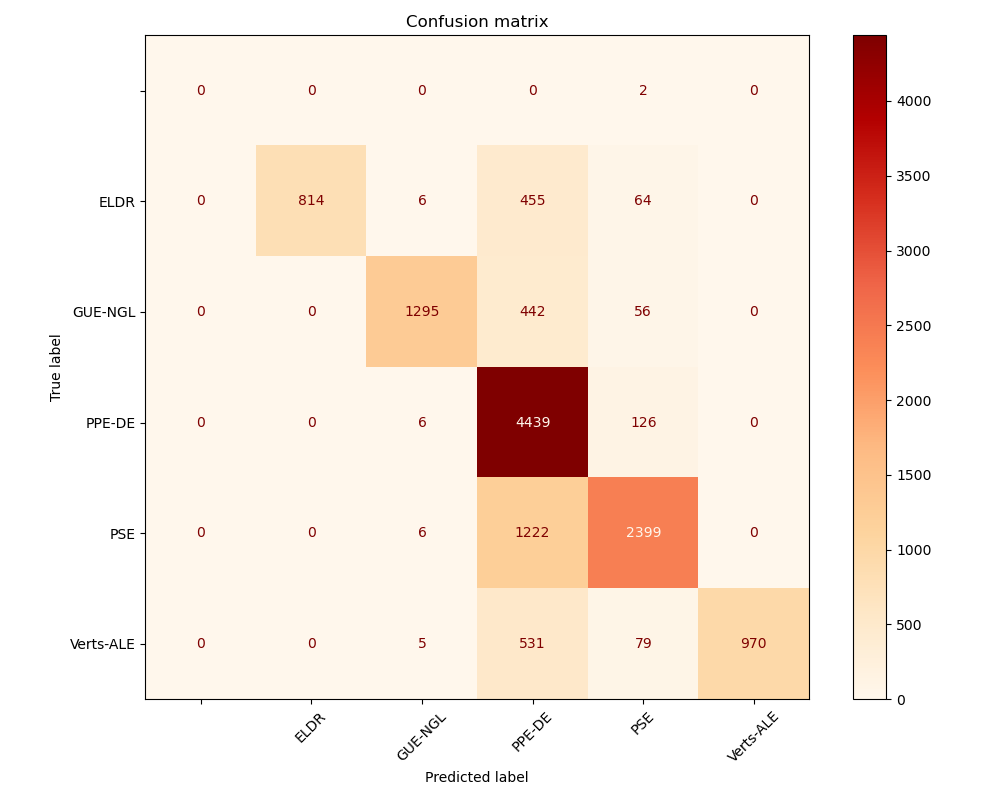
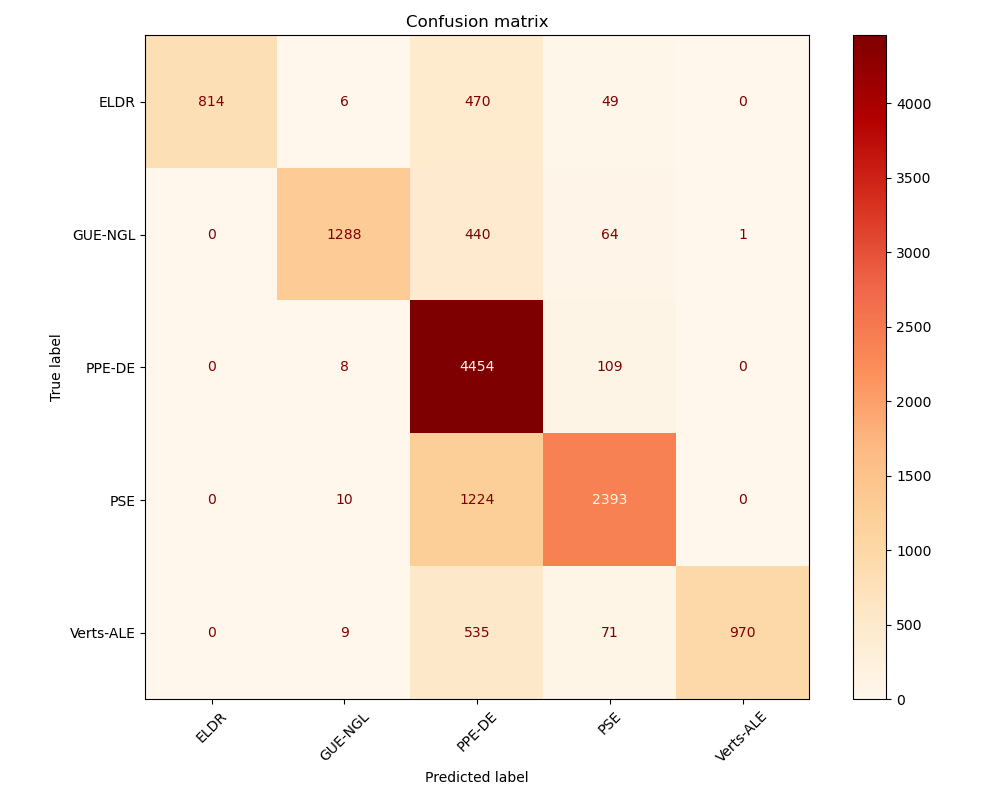
serveral fixes

diff --git a/src/classification/Classifier.py b/src/classification/Classifier.py
@@ -39,7 +39,7 @@ class Classifier:
             __scoring (str): The scoring metric to use during GridSearchCV (default: "accuracy").
     """
 
-    def __init__(self, type: str, X_train, X_test, y_train, y_test, labels):
+    def __init__(self, type: str, X_train, X_test, y_train, y_test, labels, language):
         self.type = type
         self.X_train = X_train
         self.X_test = X_test
@@ -55,6 +55,7 @@ class Classifier:
             "LR": self.__gridSearch_LR,
         }
         self.__scoring = "accuracy"
+        self.language = language
 
     def gridSearch(self, save=False) -> tuple:
         """
@@ -80,8 +81,8 @@ class Classifier:
         )
         if save:
             print(best_params)
-            os.makedirs("best_params", exist_ok=True)
-            with open(f"best_params/{self.type}.json", "w") as outf:
+            os.makedirs(f"best_params/{self.language}", exist_ok=True)
+            with open(f"best_params/{self.type}_{self.language}.json", "w") as outf:
                 json.dump(best_params, outf)
         return best_params, scores
 
@@ -222,14 +223,16 @@ class Classifier:
         else:
             raise ValueError(f"Unsupported classifier type: {self.type}")
         clf.fit(self.X_train, self.y_train)
-        os.makedirs("saved_models", exist_ok=True)
+        os.makedirs(f"saved_models/{self.language}", exist_ok=True)
         joblib.dump(clf, f"saved_models/{self.type}_best.joblib")
         metadata = {
             "type": self.type,
             "best_params": best_params,
             "labels": self.labels,
         }
-        with open(f"saved_models/{self.type}_metadata.json", "w") as outf:
+        with open(
+            f"saved_models/{self.language}/{self.type}_metadata.json", "w"
+        ) as outf:
             json.dump(metadata, outf)
 
     def get_confusionMatrix(self, y_hat) -> np.ndarray:
@@ -276,7 +279,7 @@ class Classifier:
             plt.show()
         if save:
             os.makedirs(f"results/{self.type}", exist_ok=True)
-            plt.savefig(f"results/{self.type}/confusion_matrix.png")
+            plt.savefig(f"results/{self.type}/confusion_matrix_{self.language}.png")
         return confMatrix
 
     def get_classificationReport(self, y_hat, save=False) -> str:
@@ -296,6 +299,8 @@ class Classifier:
         print(report)
         if save:
             os.makedirs(f"results/{self.type}", exist_ok=True)
-            with open(f"results/{self.type}/classification_report.txt", "w") as outf:
+            with open(
+                f"results/{self.type}/classification_report_{self.language}.txt", "w"
+            ) as outf:
                 outf.write(str(report))
         return str(report)

diff --git a/src/classification/Trainer.py b/src/classification/Trainer.py
@@ -33,6 +33,7 @@ class Trainer:
         y_train: np.ndarray,
         y_test,
         labels: list,
+        language: str,
     ):
         self.models = models
         self.X_train = X_train
@@ -40,6 +41,7 @@ class Trainer:
         self.y_train = y_train
         self.y_test = y_test
         self.labels = labels
+        self.language = language
 
     def compare_results(
         self, defined=False, save_results=True, save_best=True, table=True
@@ -95,10 +97,16 @@ class Trainer:
             A namedtuple containing the accuracy and F1-score of the model.
         """
         clf = Classifier(
-            type, self.X_train, self.X_test, self.y_train, self.y_test, self.labels
+            type,
+            self.X_train,
+            self.X_test,
+            self.y_train,
+            self.y_test,
+            self.labels,
+            self.language,
         )
         if defined:
-            with open(f"best_params/{type}.json", "r") as inf:
+            with open(f"best_params/{self.language}/{type}.json", "r") as inf:
                 best_params = json.load(inf)
         else:
             best_params = None
@@ -145,7 +153,13 @@ class Trainer:
         for model in self.models:
             print(f"Currently training {model}:")
             clf = Classifier(
-                model, self.X_train, self.X_test, self.y_train, self.y_test, self.labels
+                model,
+                self.X_train,
+                self.X_test,
+                self.y_train,
+                self.y_test,
+                self.labels,
+                language=self.language,
             )
             best_params, results = clf.gridSearch(save=True)
             print(f"Best params: {best_params}")
@@ -183,7 +197,8 @@ class Trainer:
             self.y_train,
             self.y_test,
             self.labels,
+            self.language,
         )
-        with open(f"best_params/{best_model_type}.json", "r") as inf:
+        with open(f"best_params/{self.language}/{best_model_type}.json", "r") as inf:
             best_params = json.load(inf)
         clf.save_model(best_params=best_params)

diff --git a/src/main.py b/src/main.py
@@ -17,19 +17,18 @@ LANGUAGE = "fr"
 def main():
     loader = DataLoader(TRAIN_PATH, TEST_PATH, LANGUAGE)
     df = loader.df_unique
-    print(f"NORMAL DF:{loader.df}")
-    print(f"DROP DUPLICATES:")
     print(df)
 
     X_train, X_test, y_train, y_test = loader.get_train_test_vectorized()
     # print(X_train, X_test, y_train, y_test)
     labels = sorted(set(df["y"]))
+    print(labels)
 
     # vectorizer_path = f"{SAVED_MODELS_PATH}/tfidf_vectorizer.joblib"
     # X = vectorize(df, vectorizer_path)
-    trainer = Trainer(["LR", "RFC"], X_train, X_test, y_train, y_test, labels)
+    trainer = Trainer(["LR", "RFC"], X_train, X_test, y_train, y_test, labels, LANGUAGE)
     # trainer.get_best_params(save=True)
-    # trainer.compare_results(save_results=True, defined=True, save_best=False)
+    trainer.compare_results(save_results=True, defined=True, save_best=False)
 
 
 if __name__ == "__main__":

diff --git a/src/preprocessing/DataLoader.py b/src/preprocessing/DataLoader.py
@@ -8,7 +8,9 @@ import joblib
 class DataLoader:
     def __init__(self, train_path, test_path, language):
         full_df = DataLoader.convert_corpus_to_dataframe(train_path, test_path)
-        self.df = full_df.query("`language` == @language").reset_index(drop=True)
+        self.df = full_df.query("`language` == @language and `y` != ''").reset_index(
+            drop=True
+        )
         self.df_unique = self.df.drop_duplicates(subset="paragraphs").reset_index(
             drop=True
         )
